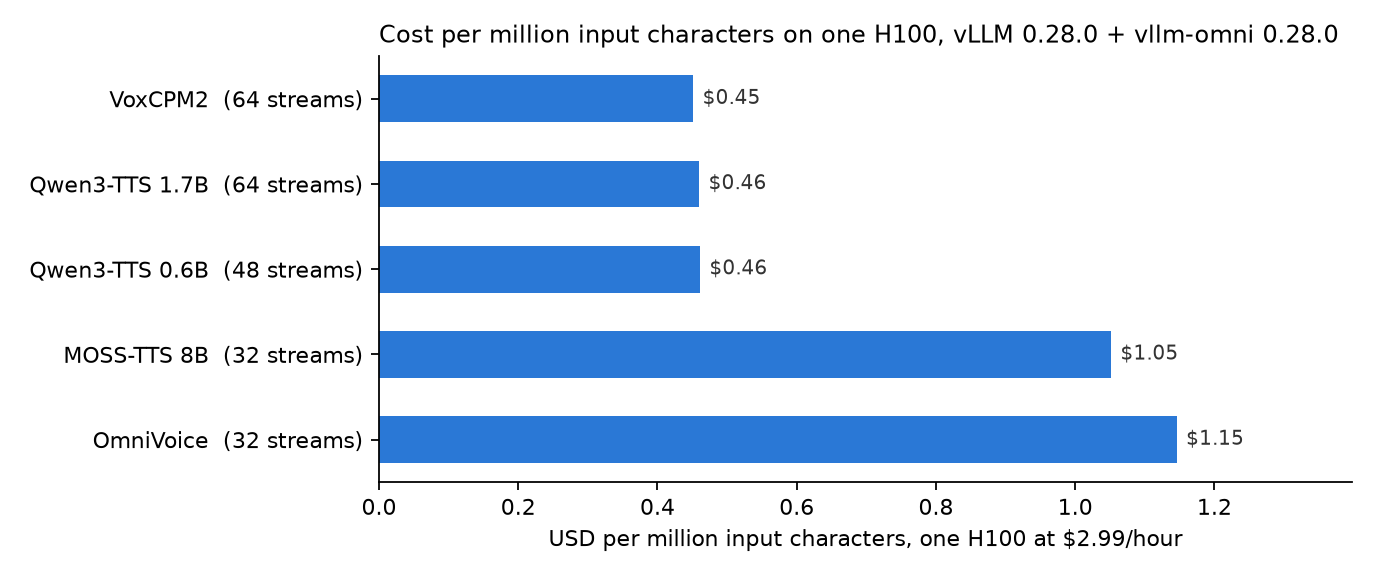
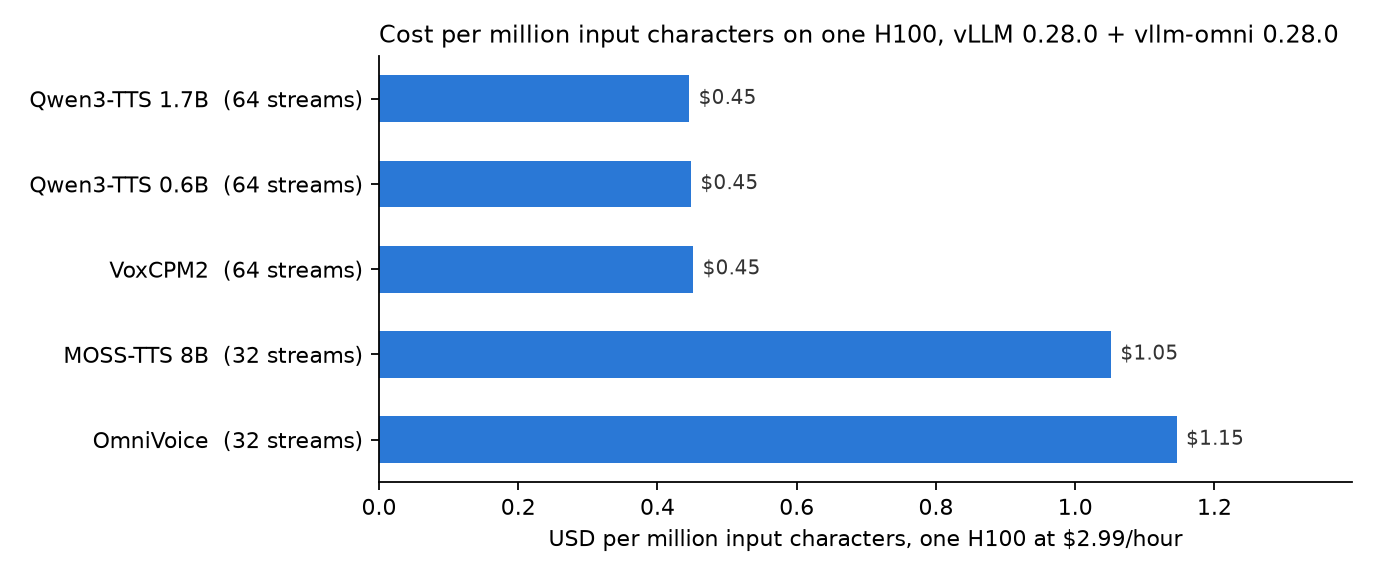
README: library column re-measured with the light-load codec chunk ramp
The Qwen3-TTS library column is now thestage-vllm-omni with the load-aware
first chunk: a request that starts while at most four streams are decoding
walks a 2, 4, 8, 16, 32, 75-frame ladder, the others the 8, 16, 32, 75 one.
The vllm-omni default and optimized-parameters columns are unchanged.

What changed:
- First byte p50 on the 1-64 stream sweep, library, 1.7B / 0.6B:
  c1 0.085 -> 0.058 s / 0.080 -> 0.057 s, c2 0.097 -> 0.067 / 0.099 -> 0.067,
  c4 0.123 -> 0.083 / 0.127 -> 0.092; c8 to c48 within 0.05 s of the
  previous curve, c64 1.015 -> 0.922 / 1.015 -> 0.920 s.
- RTFx c8 / c32: 1.7B 56.90 / 99.74 -> 56.66 / 101.50 (1.12x / 1.15x over
  the parameters), 0.6B 58.43 / 102.51 -> 58.04 / 101.80 (1.10x / 1.15x).
- First byte / audible at c8: 1.7B 0.165 / 0.424 s, 0.6B 0.164 / 0.308 s;
  first-byte cut at 8 streams 34% to 44%.
- Continuity 100% / 100% at c8 / c32 on both; cost 2.5 cents per audio
  hour on both sizes, 0.6B now at 64 streams (96.3% without a stall).
- WER 1.16 +- 0.52 % (1.7B) and 1.30 +- 0.58 % (0.6B); the vllm-omni
  values stay inside both intervals. A second capture of each 0.6B column
  (library and optimized parameters) gave 1.21 % and 1.21 %; over both
  captures (400 pairs) the paired difference is +0.2 pp, 95% interval -0.1
  to +0.4, within noise, stated under the WER table.
- The overlay's two new library keys named; the throughput and cost charts
  regenerated.

Verified on one H100 80GB SXM, vLLM 0.28.0 + vllm-omni 0.28.0: c8 / c32 at
[…]

diff --git a/README.md b/README.md
@@ -276,8 +276,8 @@ measured on, which is also what the library serves when `vllm serve` gets no
 
 | Model | Served model id | Deploy configs | thestage-vllm-omni overlay | What `_optimized` changes | Model weights | RTFx c8 / c32 |
 |---|---|---|---|---|---|---|
-| Qwen3-TTS 1.7B-Base | `Qwen/Qwen3-TTS-12Hz-1.7B-Base` | `qwen3tts17b_{default,optimized}` | `chunk75_init16` | first chunk 1 to 16 frames, chunk 25 to 75, decode-graph batching turned on | 4.4 GiB | 56.90 / 99.74 |
-| Qwen3-TTS 0.6B-Base | `Qwen/Qwen3-TTS-12Hz-0.6B-Base` | `qwen3tts06b_{default,optimized}` | `chunk75_init16` | the same keys as the 1.7B | 2.5 GiB | 58.43 / 102.51 |
+| Qwen3-TTS 1.7B-Base | `Qwen/Qwen3-TTS-12Hz-1.7B-Base` | `qwen3tts17b_{default,optimized}` | `chunk75_init16` | first chunk 1 to 16 frames, chunk 25 to 75, decode-graph batching turned on | 4.4 GiB | 56.66 / 101.50 |
+| Qwen3-TTS 0.6B-Base | `Qwen/Qwen3-TTS-12Hz-0.6B-Base` | `qwen3tts06b_{default,optimized}` | `chunk75_init16` | the same keys as the 1.7B | 2.5 GiB | 58.04 / 101.80 |
 | VoxCPM2 | `openbmb/VoxCPM2` | `voxcpm2_{default,optimized}` | `batch32` | `max_num_seqs` and decode-graph batch limit 8 to 32 | 4.9 GiB | 56.18 / 106.17 |
 | MOSS-TTS 8B | `OpenMOSS-Team/MOSS-TTS` | `moss_{default,optimized}` | `tuned` | `max_num_seqs` 4 to 32 on stage 0, 1 to 8 on stage 1 | 24.5 GiB | 29.91 / 62.76 |
 | OmniVoice | `k2-fsa/OmniVoice` | `omnivoice_{default,optimized}` | `batch` | dtype fp32 to bf16 | 2.2 GiB | 41.90 / 44.36 |
@@ -298,9 +298,11 @@ for them: first audio equals total response time.
 The library's Qwen3-TTS overlay `chunk75_init16` (also accepted under its alias
 `chunk75_init16_mk`) starts from the keys of `qwen3tts17b_optimized`, grows the
 codec chunk through 8, 16 and 32 frames to the 75-frame steady chunk with
-vllm-omni's own `codec_chunk_ramp` key, and carries three library keys that stock
-vllm-omni ignores: `first_chunk_max_per_step` and `first_chunk_priority` for the
-codec scheduler, and `code_predictor_megakernel`. No config in this repository
+vllm-omni's own `codec_chunk_ramp` key, and carries five library keys that stock
+vllm-omni ignores: `codec_chunk_ramp_light` and
+`codec_chunk_ramp_light_max_inflight` for a shorter first chunk under light load,
+`first_chunk_max_per_step` and `first_chunk_priority` for the codec scheduler,
+and `code_predictor_megakernel`. No config in this repository
 reproduces that overlay or OmniVoice's `batch`.
 
 What each of those keys does, and how the CUDA-graph capture ladder is derived:
@@ -467,8 +469,8 @@ so its column is the part configuration cannot reach.
 | Model | What the optimized parameters change | Optimized parameters over the vllm-omni default, c8 / c32 | thestage-vllm-omni over the optimized parameters, c8 / c32 | RTFx at the recommended setting, c8 / c32 |
 |---|---|---|---|---|
 | VoxCPM2 | `max_num_seqs` and decode-graph batch limit 8 to 32 | 1.00x / 1.45x | 1.21x / 1.50x | 56.18 / 106.17 |
-| Qwen3-TTS 0.6B-Base | first chunk 1 to 16 frames, chunk 25 to 75, decode-graph batching turned on | 1.0x / 1.09x | 1.11x / 1.16x | 58.43 / 102.51 |
-| Qwen3-TTS 1.7B-Base | the same keys as the 0.6B | 1.0x / 1.10x | 1.12x / 1.13x | 56.90 / 99.74 |
+| Qwen3-TTS 0.6B-Base | first chunk 1 to 16 frames, chunk 25 to 75, decode-graph batching turned on | 1.0x / 1.09x | 1.10x / 1.15x | 58.04 / 101.80 |
+| Qwen3-TTS 1.7B-Base | the same keys as the 0.6B | 1.0x / 1.10x | 1.12x / 1.15x | 56.66 / 101.50 |
 | MOSS-TTS 8B | `max_num_seqs` 4 to 32 on stage 0, 1 to 8 on stage 1 | n/a | n/a | 29.91 / 62.76 |
 | OmniVoice | dtype fp32 to bf16 | n/a | n/a | 41.90 / 44.36 |
 
@@ -477,8 +479,9 @@ Seed-TTS-Eval EN, 300 requests per point, warmup 8@c8 + 100@c32; c8 and c32.
 Parameter gain = optimized parameters against the file vllm-omni ships; library
 gain = thestage-vllm-omni on top of those parameters, on `chunk75_init16` for
 Qwen3-TTS. Both sides of each ratio are measured on the same day, back to back in
-one session except the Qwen3-TTS 1.7B library ratio, whose two sides are two
-sessions. 1.0x = a ratio of 1.05x or less, within session-to-session noise.
+one session, except the Qwen3-TTS library ratios, whose two sides are two
+sessions less than a day apart. 1.0x = a ratio of 1.05x or less, within
+session-to-session noise.
 n/a: for MOSS-TTS and OmniVoice the two steps cannot be separated, because the
 MOSS-TTS default file only starts with the library's codec fix and OmniVoice's
 only change, bf16, needs the library; measured together against the vllm-omni
@@ -497,8 +500,8 @@ grey bar because it does not start on vllm-omni.
 Qwen3-TTS is where the serving parameters buy the least throughput: 1.0x at 8
 streams on both checkpoints, 1.10x at 32 on the 1.7B and 1.09x on the 0.6B. The
 Qwen3-TTS key that decides the outcome is the first-chunk size, and it decides
-continuity rather than throughput. The library adds 1.12x / 1.13x on the 1.7B
-and 1.11x / 1.16x on the 0.6B at 8 / 32 streams, running the code predictor's
+continuity rather than throughput. The library adds 1.12x / 1.15x on the 1.7B
+and 1.10x / 1.15x on the 0.6B at 8 / 32 streams, running the code predictor's
 residual-codebook loop, 15 steps through 5 layers for every audio frame, as one
 persistent GPU kernel instead of about a thousand kernel launches.
 
@@ -561,8 +564,8 @@ tuned file needs 0.255 s and 100% of them play clean.
 | Model | Optimized parameters, first byte / audible | Plus thestage-vllm-omni, first byte / audible |
 |---|---|---|
 | VoxCPM2 | 0.303 / 0.497 | 0.170 / 0.423 |
-| Qwen3-TTS 0.6B-Base | 0.249 / 0.403 | 0.168 / 0.333 |
-| Qwen3-TTS 1.7B-Base | 0.255 / 0.526 | 0.167 / 0.468 |
+| Qwen3-TTS 0.6B-Base | 0.249 / 0.403 | 0.164 / 0.308 |
+| Qwen3-TTS 1.7B-Base | 0.255 / 0.526 | 0.165 / 0.424 |
 
 Setup: H100 80GB, vLLM 0.28.0 + vllm-omni 0.28.0, torch 2.13 / CUDA 12.9,
 Seed-TTS-Eval EN, 300 requests per point, warmup 8@c8 + 100@c32; c8, p50 in
@@ -581,7 +584,7 @@ defaults.
 
 On vllm-omni's fixed chunk sizes, a first chunk worth at least a second of audio
 is the price of a stream that does not stall. thestage-vllm-omni cuts the
-first-byte latency at 8 streams by 32% to 44% and keeps every stream clean at 8
+first-byte latency at 8 streams by 34% to 44% and keeps every stream clean at 8
 and 32.
 
 #### What the library runs on Qwen3-TTS
@@ -589,9 +592,12 @@ and 32.
 The library column runs three changes on top of the optimized parameters. The
 codec chunk grows through 8, 16 and 32 frames to the 75-frame steady chunk
 (vllm-omni's own `codec_chunk_ramp` key), so the first byte leaves after 0.64 s of
-audio rather than 1.3 s. The codec scheduler starts at most two new requests per
-step and runs those steps before the running streams' next chunks, so a burst of
-arriving requests does not wait on one long decoder call. The code predictor's
+audio rather than 1.3 s. While at most four streams, the new one included, are
+decoding, a new request starts at 2 frames instead and grows through 4, 8, 16
+and 32, so with few clients its first byte leaves after 0.16 s of audio. The
+codec scheduler starts at most two new requests per step and runs those steps
+before the running streams' next chunks, so a burst of arriving requests
+does not wait on one long decoder call. The code predictor's
 residual-codebook loop runs as one persistent GPU kernel. All three are in the
 library's default overlay `chunk75_init16`.
 
@@ -614,7 +620,7 @@ divided by chars/s times 1e6. Characters are input text, counted only over
 requests delivered without a gap.
 
 Per hour of synthesized speech the same points are 2.6 cents on VoxCPM2, 2.5 on
-Qwen3-TTS 1.7B, 2.7 on Qwen3-TTS 0.6B, 5.5 on MOSS-TTS and 6.7 on OmniVoice. Hosted TTS
+Qwen3-TTS 1.7B, 2.5 on Qwen3-TTS 0.6B, 5.5 on MOSS-TTS and 6.7 on OmniVoice. Hosted TTS
 APIs list prices per million characters; put a provider's price next to this
 chart. The figures exclude networking, idle capacity and operations.
 
@@ -626,8 +632,8 @@ the text that was sent.
 
 | Model | WER, % |
 |---|---|
-| Qwen3-TTS 1.7B-Base | 1.06 ± 0.49 |
-| Qwen3-TTS 0.6B-Base | 1.11 ± 0.51 |
+| Qwen3-TTS 1.7B-Base | 1.16 ± 0.52 |
+| Qwen3-TTS 0.6B-Base | 1.30 ± 0.58 |
 | VoxCPM2 | 1.21 ± 0.52 |
 | MOSS-TTS 8B | 1.88 ± 0.65 |
 | OmniVoice | 1.26 ± 0.54 |
@@ -636,7 +642,11 @@ Setup: H100 80GB, vLLM 0.28.0 + vllm-omni 0.28.0, thestage-vllm-omni (Qwen3-TTS 
 `chunk75_init16`), 200 Seed-TTS-Eval EN sentences per model. The value pools
 the whole set, total word edits divided by total reference words, and the number
 after ± is half of a 95% interval bootstrapped over sentences. The same sentences
-on vllm-omni land inside these intervals; MOSS-TTS runs on one stack only. WER measures intelligibility, not voice similarity;
+on vllm-omni land inside these intervals; MOSS-TTS runs on one stack only. A second
+capture of each Qwen3-TTS 0.6B-Base column, thestage-vllm-omni and the optimized
+parameters, gave 1.21 and 1.21; over both captures the paired difference between
+the two is +0.2 percentage points, 95% interval -0.1 to +0.4 (400 pairs), within
+noise. WER measures intelligibility, not voice similarity;
 speaker similarity on the cloning path is unmeasured. The pipeline is described
 in [benchmark/README.md](benchmark/README.md#quality-word-error-rate).
 
